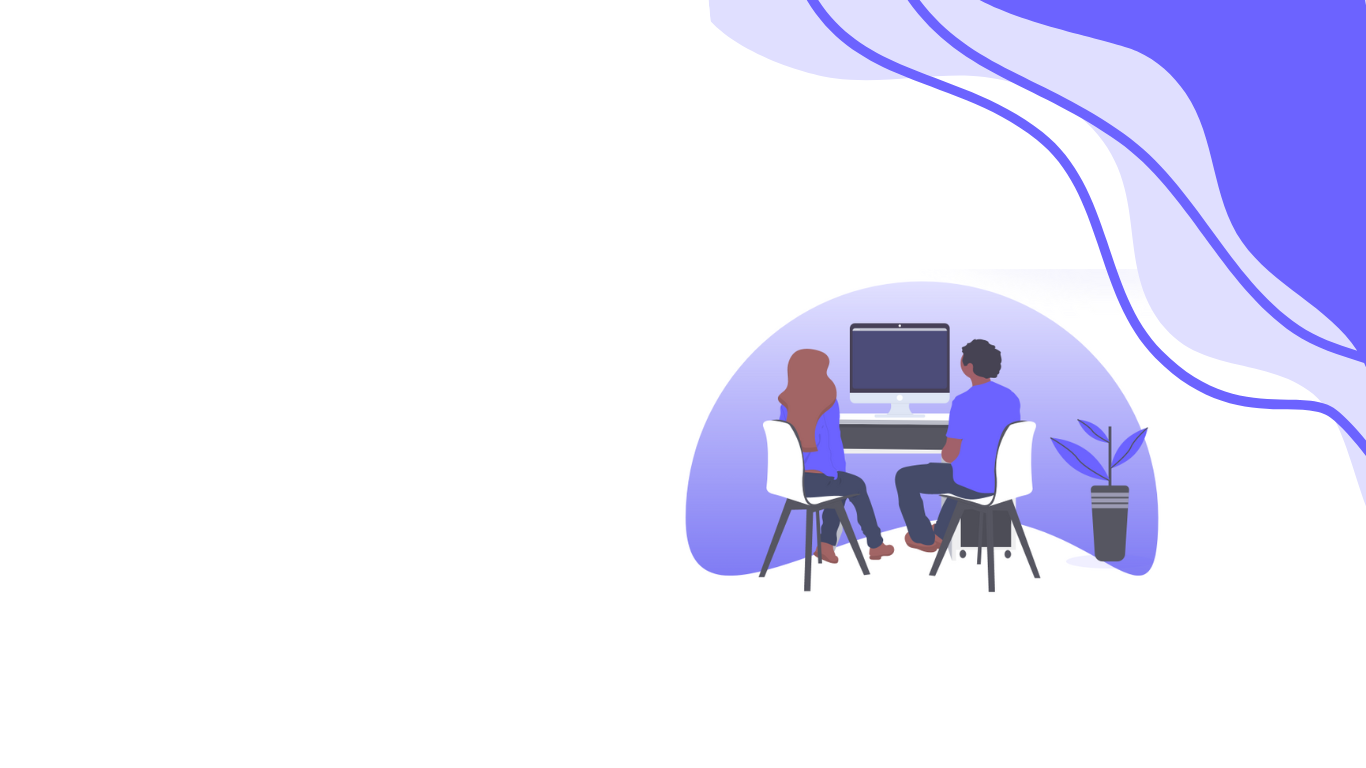
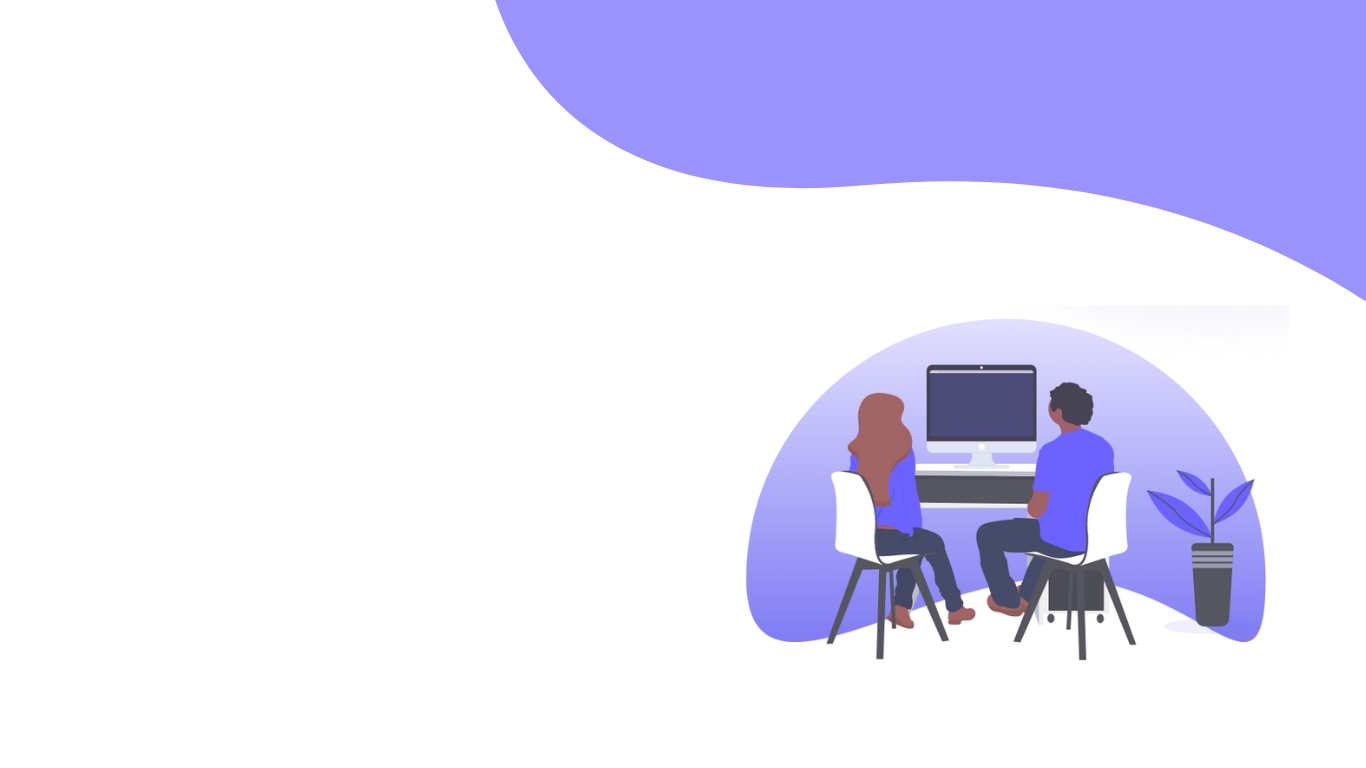
Changed background

diff --git a/UI Expert HomePage.html b/UI Expert HomePage.html
@@ -8,7 +8,7 @@
     <title>UI Expert Website Home Page</title>
 </head>
 
-<body>
+<body background="HomePageBackground.png">
 
     <header>
         <div class="companyName">
@@ -17,15 +17,16 @@
                 <span style="color: #4B647E;"> UIExpert</span>
             </p>
         </div>
-        <nav class="topnav">
-            <a href="UI Expert HomePage.html">HOME</a>
-            <a href="portfolio">PORTFOLIO</a>
-            <a href="about">ABOUT</a>
-            <a href="blog">BLOG</a>
-            <a href="contact">CONTACT</a>
-            <button class="login" type="button">LOG IN</button>
-        </nav>
-
+        <div class="navMenu">
+            <nav class="topnav">
+                <a href="UI Expert HomePage.html">HOME</a>
+                <a href="portfolio">PORTFOLIO</a>
+                <a href="about">ABOUT</a>
+                <a href="blog">BLOG</a>
+                <a href="contact">CONTACT</a>
+                <button class="login" type="button">LOG IN</button>
+            </nav>
+        </div>
     </header>
 
     <div class="mainSentence">

diff --git a/HomePageCSS.css b/HomePageCSS.css
@@ -1,5 +1,5 @@
 body {
-    background-image: url(HomePageBackground.png);
+    background-size: cover;
     background-position: center;
     background-repeat: no-repeat;
     background-position: right top;
@@ -8,15 +8,13 @@ body {
 }
 
 /* Color needs changing when positioning the menu bar to match original */
-
-.topnav {
-    position: relative;
+.navMenu {
     text-align: right;
 }
 
 a {
     text-decoration: none;
-    color: #534D4D;
+    color: white;
     font-size: 20px;
     padding-right: 2rem;
 }
@@ -24,6 +22,8 @@ a {
 .companyName {
     text-align: left;
     margin-left: 10%;
+    display: inline-block;
+    font-size: 32px;
 }
 
 .mainSentence {
